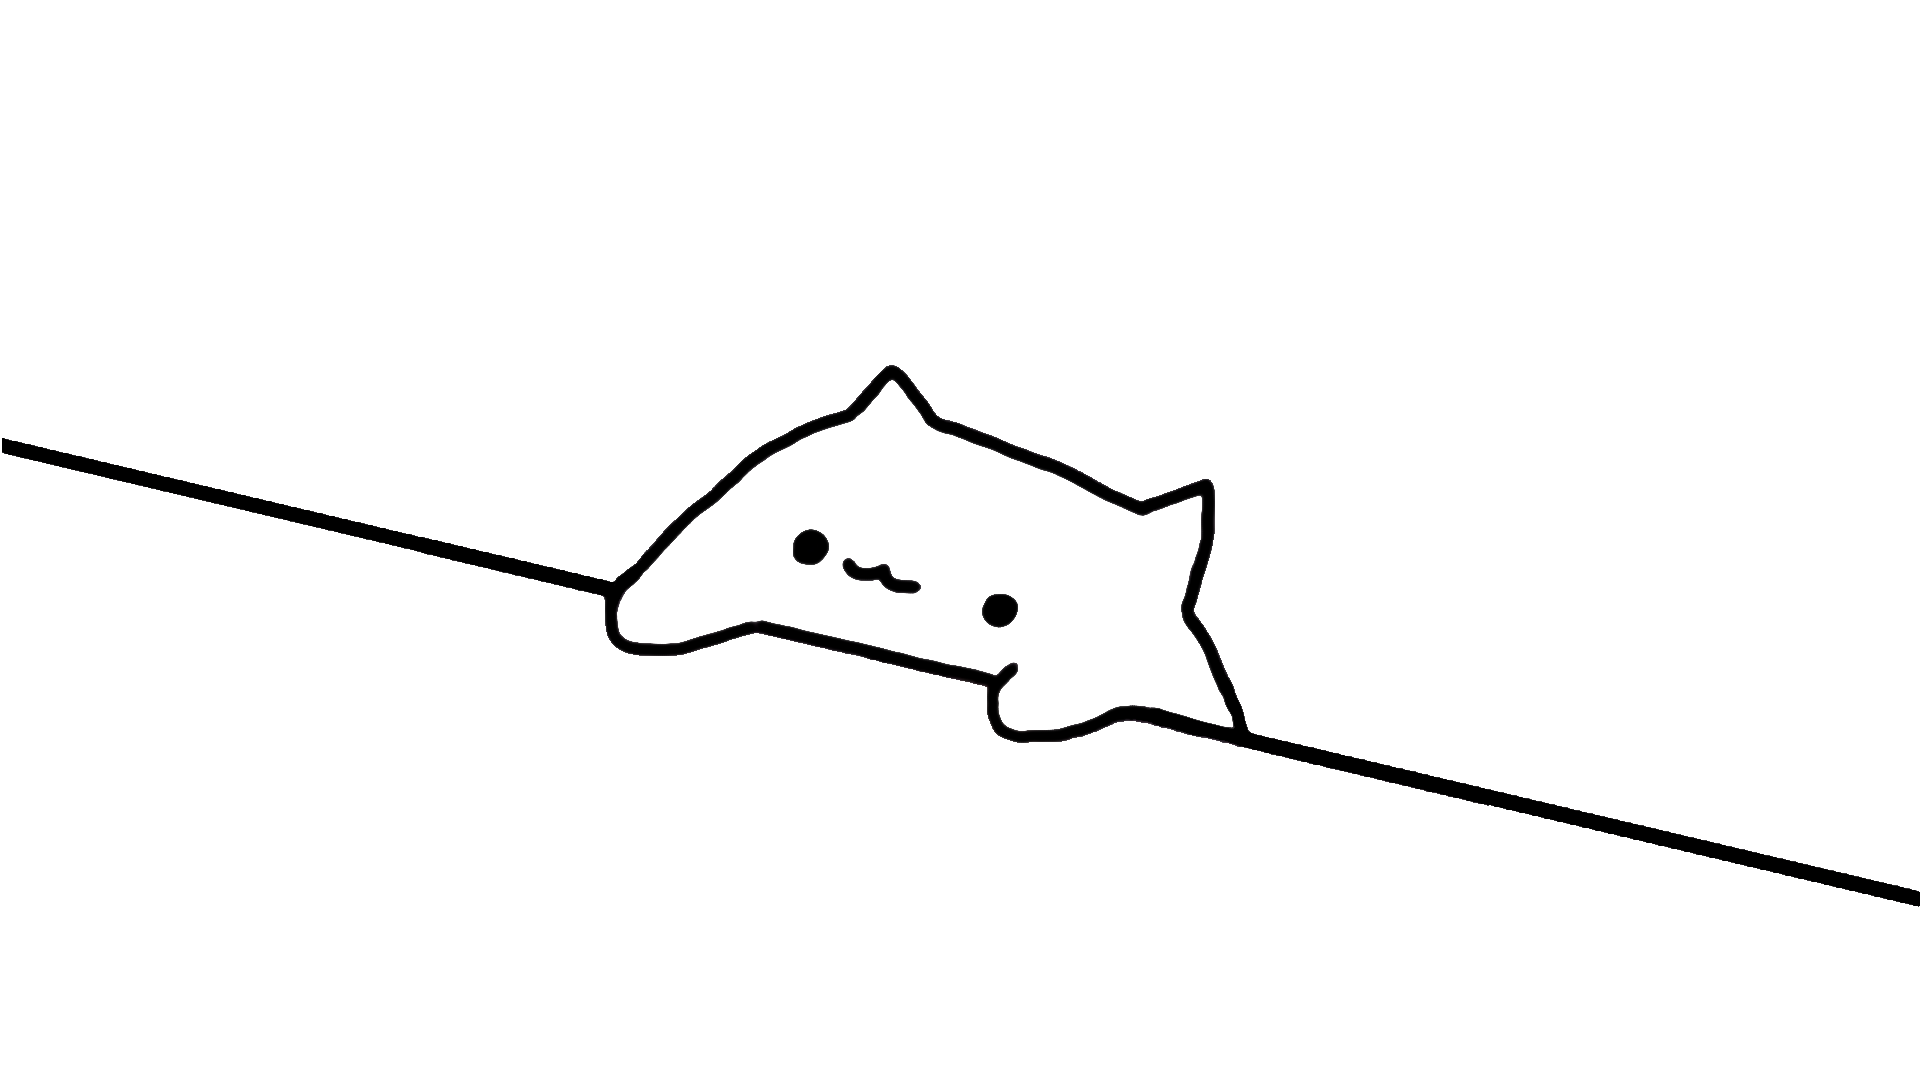
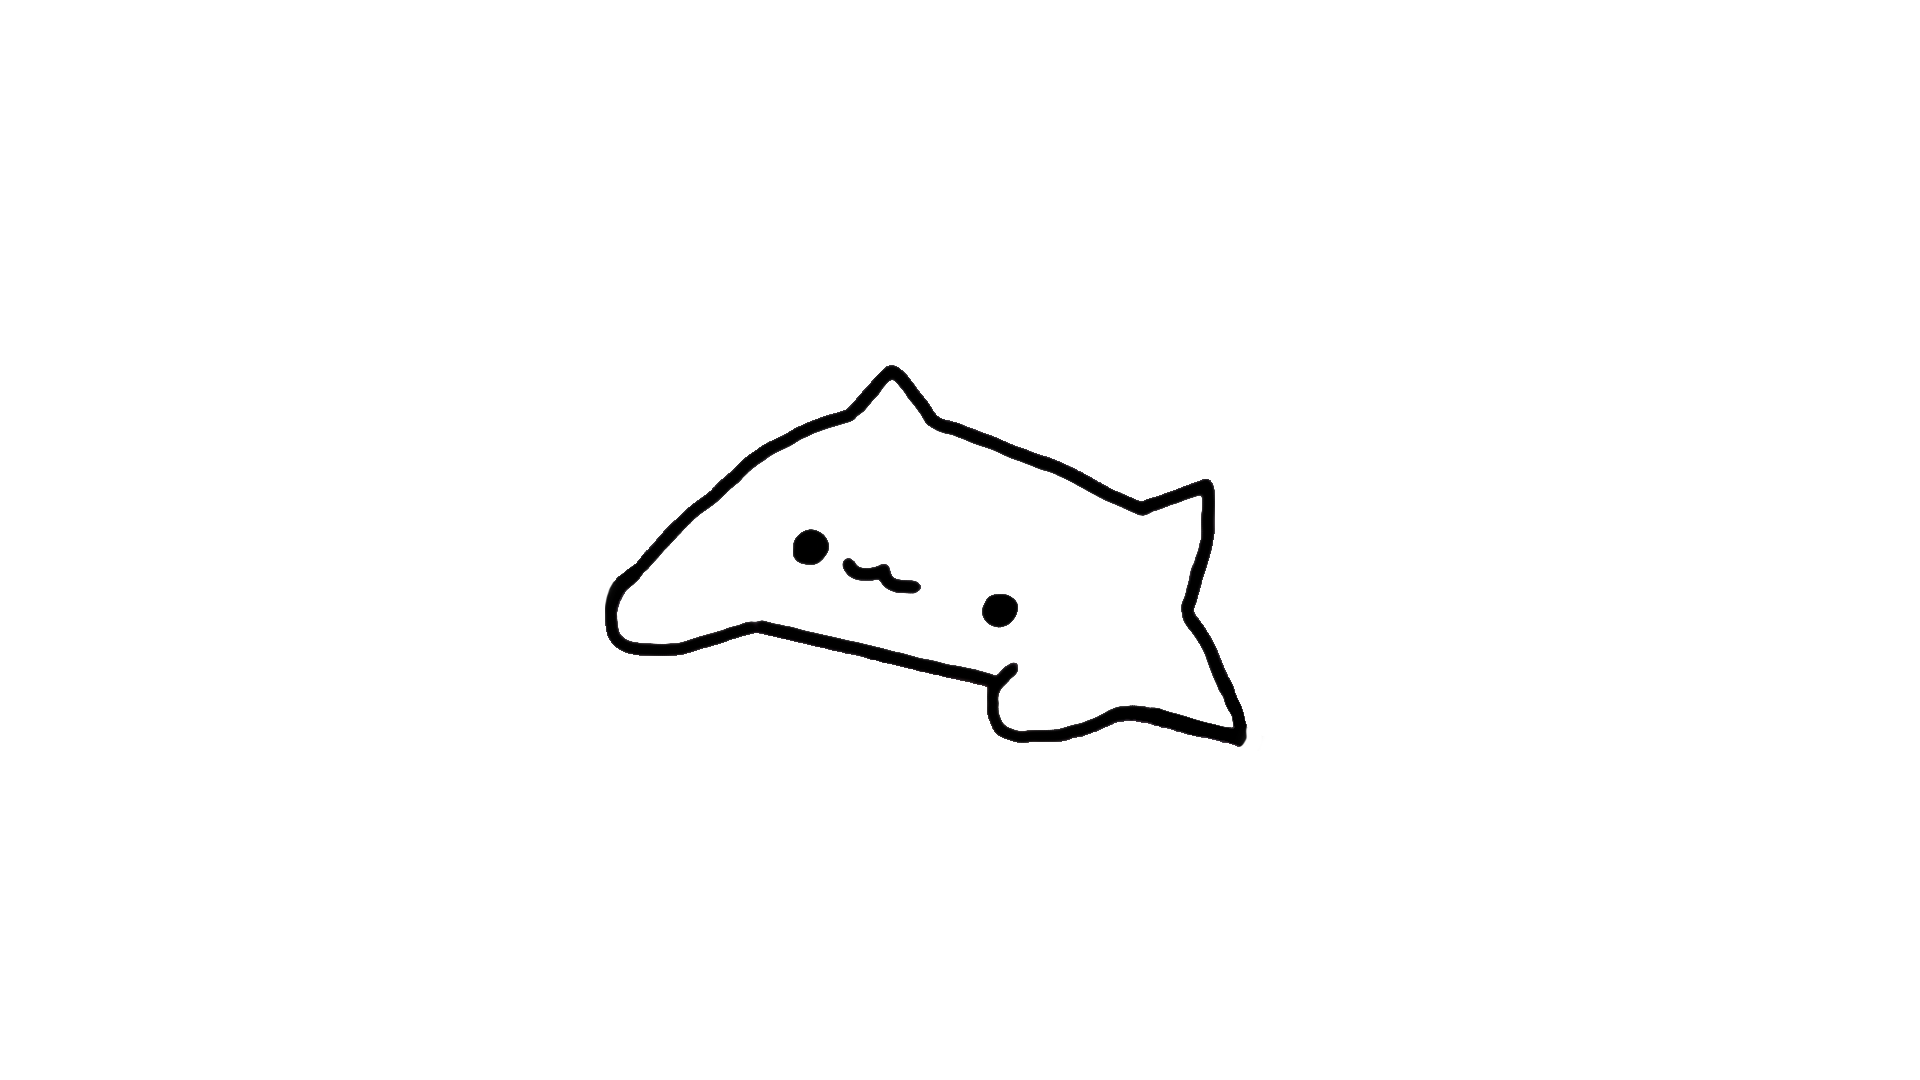
Prototype animation done

Changed region(s): [[0.0, 0.3972, 0.3125, 0.55], [0.625, 0.6722, 0.9062, 0.7944], [0.9062, 0.7944, 1.0, 0.8556]]

diff --git a/src/index.js b/src/index.js
@@ -3,9 +3,11 @@ WebMidi.enable(function (err) {
         console.log("WebMidi could not be enabled.", err);
     }
     else {
-        var element = document.getElementById("test");
+        var text = document.getElementById("text");
+        var cat = document.getElementById("cat");
         var keys = [];
-        console.log(element);
+        var octaves = [];
+        // console.log(element);
         // console.log(WebMidi.inputs);
         // console.log(WebMidi.outputs);
 
@@ -23,18 +25,34 @@ WebMidi.enable(function (err) {
         input.addListener('noteon', "all", function (e) {
             // console.log("Received 'noteon' message (" + e.note.name + e.note.octave + ").");
             keys.push(`${e.note.name}${e.note.octave}`);
-            element.innerHTML = (`${keys}`);
+            octaves.push(`${e.note.octave}`);
+            text.innerHTML = (`${keys}`);
+            handPairs(octaves.sort);
+            cat.innerHTML = (`<img src="../src/imgs/catDown.png">`)
             // console.log(keys);
+            // console.log(octaves);
         });
 
         input.addListener('noteoff', "all", function (e) {
             // console.log("Received 'noteoff' message (" + e.note.name + e.note.octave + ").");
             keys.splice(keys.indexOf(`${e.note.name}${e.note.octave}`), 1);
-            element.innerHTML = (`${keys}`);
+            octaves.splice(octaves.indexOf(`${e.note.octave}`), 1);
+            text.innerHTML = (`${keys}`);
+            handPairs(octaves.sort);
+            cat.innerHTML = (`<img src="../src/imgs/catUp.png">`)
             // console.log(keys);
+            // console.log(octaves);
         });
     }
 });
+
+function handPairs(octaves) {
+
+}
+
+function display(pair) {
+    
+}
 
 // TODO - GROUP THE THE KEYS WITHIN A TIME WINDOW AND SELECT A PAIR
 // eg. key 21, 25, 29, 70, 75 result in left hand on 25 and right hand on 72/73

diff --git a/dist/index.html b/dist/index.html
@@ -12,8 +12,10 @@
 
 <body>
     <div>
-        <img id="cat" src="../src/imgs/catUp.png">
-        <h1 id="test">test</h1>
+        <div id="cat">
+            <img id="cat" src="">
+        </div>
+        <h1 id="text">test</h1>
     </div>
     <script type="text/javascript" src="../src/index.js"></script>
 </body>
